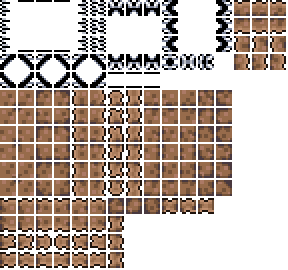
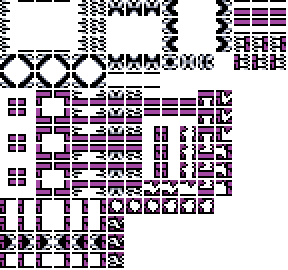
Added mud
Dirt tileset is FINALLY complete

Also added mud grasses (except for mushroom grass) and seeds for all existing grasses

diff --git a/README.md b/README.md
@@ -46,8 +46,8 @@ Last updated: _{@p time @} UTC_
 <!--@region FileCount-->
 Last updated: _2023-07-17 UTC_
 
-- **1006** Images (**0%** of the way to the next update)
-- **2959** Text Entries
+- **1017** Images (**1%** of the way to the next update)
+- **2964** Text Entries
 - **17** Songs
 - **22** Sounds
 <!--@end-region-->
